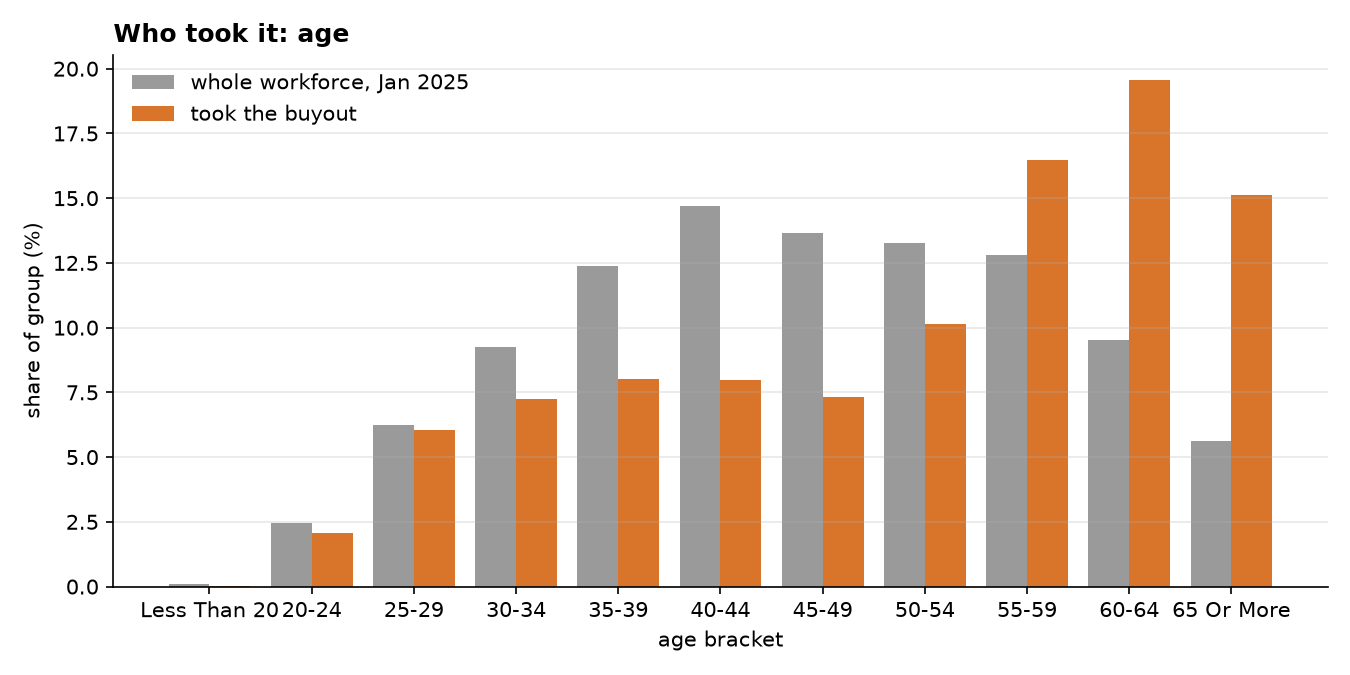
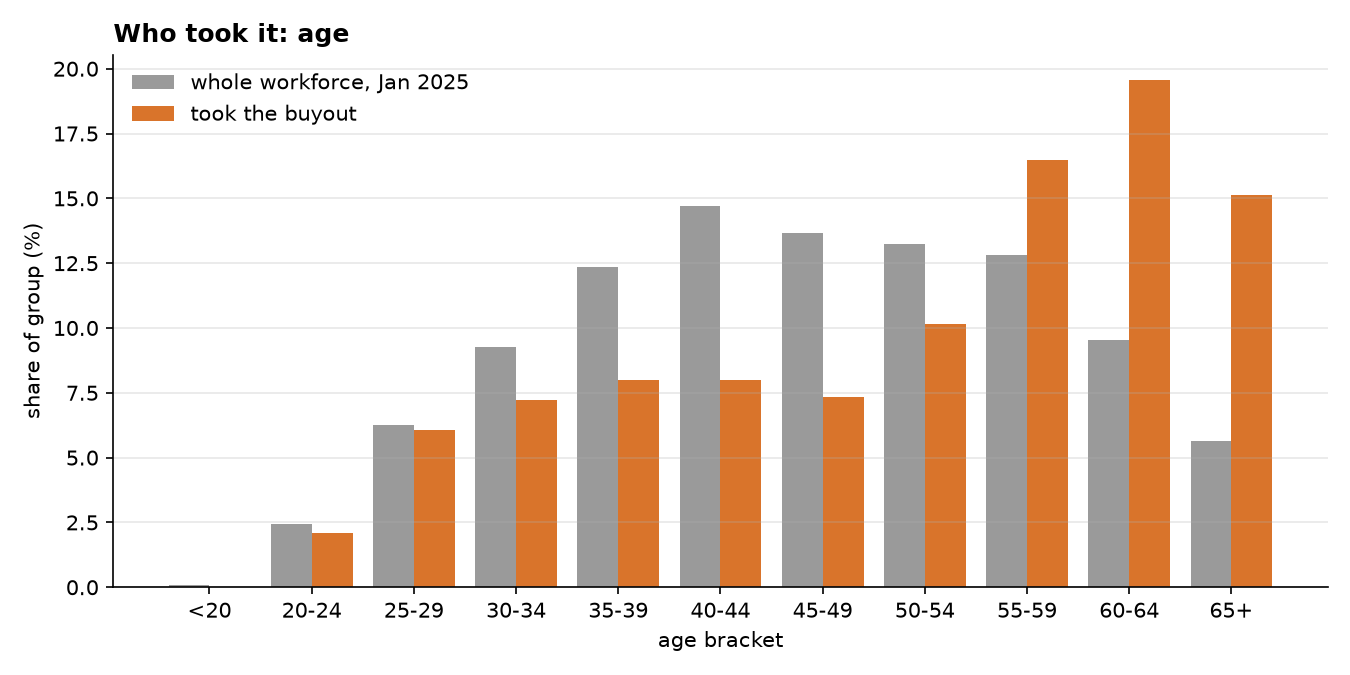
Chart polish: label placement, shorter agency and bracket names

diff --git a/src/charts.py b/src/charts.py
@@ -37,7 +37,7 @@ def month_label(m):
 def tidy(name):
     """Shorten the official agency names so they fit on a y axis."""
     name = name.title()
-    for a, b in [("Department Of ", ""), ("Nat Aeronautics And Space Administration", "NASA"),
+    for a, b in [("Department Of The ", ""), ("Department Of ", ""), ("Nat Aeronautics And Space Administration", "NASA"),
                  ("Housing And Urban Developm", "HUD"), ("Environmental Protection Agency", "EPA"),
                  ("General Services Administration", "GSA"), ("Small Business Administration", "SBA"),
                  ("Health And Human Services", "HHS"), ("Social Security Administration", "SSA"),
@@ -61,7 +61,7 @@ def chart_headcount():
         ax.spines[s].set_visible(False)
     first, last = df.iloc[0], df.iloc[-1]
     ax.annotate(f"{first.headcount/1e6:.2f}M", (0, first.headcount / 1e6), xytext=(6, 8), textcoords="offset points")
-    ax.annotate(f"{last.headcount/1e6:.2f}M", (len(df) - 1, last.headcount / 1e6), xytext=(-30, -16), textcoords="offset points")
+    ax.annotate(f"{last.headcount/1e6:.2f}M", (len(df) - 1, last.headcount / 1e6), xytext=(-34, 8), textcoords="offset points")
     save(fig, "headcount_by_month")
 
 
@@ -74,7 +74,8 @@ def chart_agency_change(min_size=5000, n=15):
     ax.set_xlabel("% change in headcount, Jan 2025 to Jul 2026")
     ax.set_title(f"Biggest cuts by agency (agencies with {min_size:,}+ staff)", loc="left", fontweight="bold")
     for i, v in enumerate(df["pct_change"]):
-        ax.text(v - 0.5, i, f"{v:.0f}%", va="center", ha="right", color="white", fontsize=9)
+        ax.text(v - 0.4, i, f"{v:.0f}%", va="center", ha="right", fontsize=9)
+    ax.set_xlim(df["pct_change"].min() * 1.12, 0)
     ax.grid(axis="x", alpha=0.3)
     for s in ["top", "right"]:
         ax.spines[s].set_visible(False)
@@ -115,6 +116,13 @@ def chart_buyout_by_agency(min_size=5000, n=15):
     save(fig, "buyout_by_agency")
 
 
+def short_label(v):
+    v = str(v)
+    fixes = {"LESS THAN 20": "<20", "65 OR MORE": "65+", "ALL OTHER OCCUPATIONS": "Everything else",
+             "STEM OCCUPATIONS": "STEM", "HEALTH OCCUPATIONS": "Health", "UNSPECIFIED": "Unspecified"}
+    return fixes.get(v, v.title() if len(v) > 6 else v)
+
+
 def chart_share(name, col, title, xlabel=None):
     """Side by side bars: share of buyout leavers vs share of the Jan 2025 workforce."""
     df = load(name)
@@ -124,7 +132,7 @@ def chart_share(name, col, title, xlabel=None):
     ax.bar([i - w / 2 for i in x], df["workforce_share"], w, color=GRAY, label="whole workforce, Jan 2025")
     ax.bar([i + w / 2 for i in x], df["buyout_share"], w, color=ORANGE, label="took the buyout")
     ax.set_xticks(list(x))
-    ax.set_xticklabels([str(v).title() if isinstance(v, str) and len(v) > 6 else str(v) for v in df[col]], rotation=0)
+    ax.set_xticklabels([short_label(v) for v in df[col]], rotation=0)
     ax.set_ylabel("share of group (%)")
     if xlabel:
         ax.set_xlabel(xlabel)
